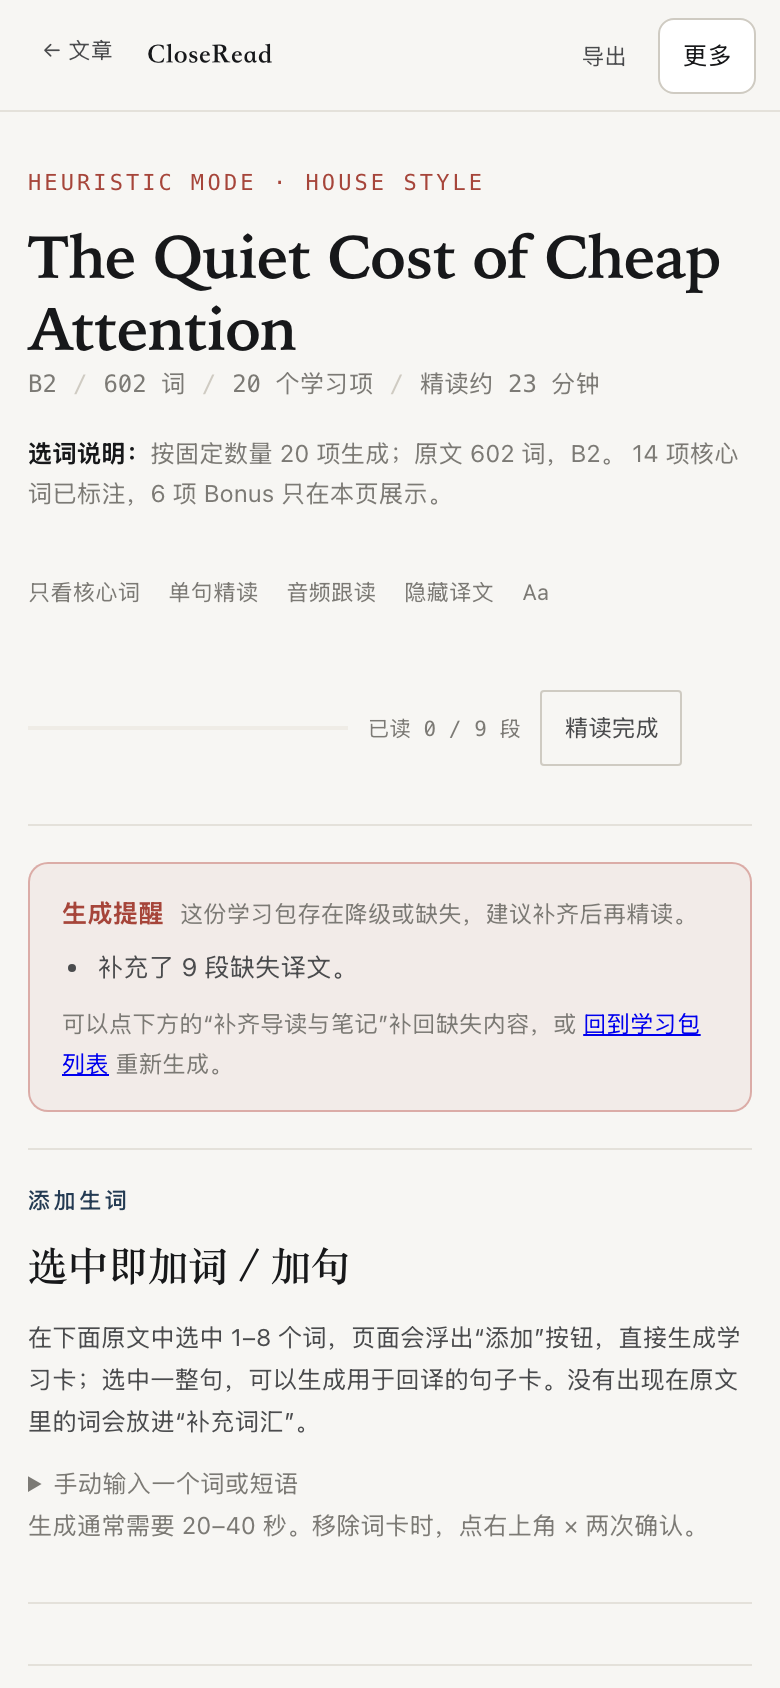
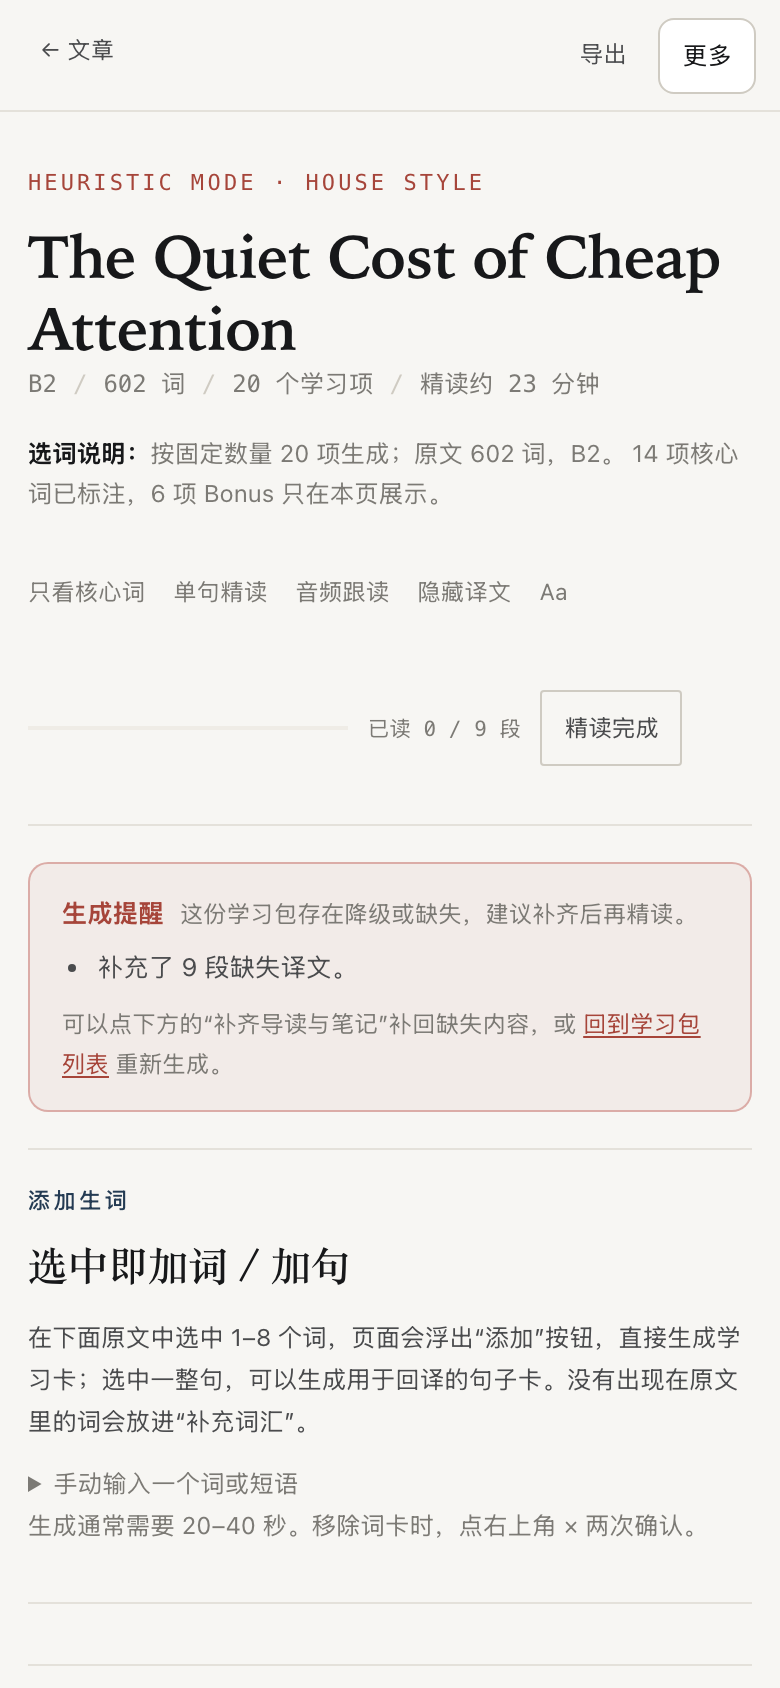
fix: tighten the mobile reader so the article starts within one screen

diff --git a/scripts/shot-reader.ts b/scripts/shot-reader.ts
@@ -36,6 +36,19 @@ try {
     await fs.mkdir(out, { recursive: true })
     await fs.writeFile(path.join(out, file), Buffer.from(shot.data, 'base64'))
     console.log(file, '→', path.join(out, file))
+
+    // Whole page, so the reading area below the fold is visible in one image.
+    const pageHeight = await page.evaluate<number>('Math.min(document.body.scrollHeight, 8000)')
+    const sliceTop = await page.evaluate<number>("(() => { const el = document.querySelector('.paragraph'); return el ? Math.max(0, el.getBoundingClientRect().top + window.scrollY - 80) : 1400 })()")
+    const bodyShot = await page.send('Page.captureScreenshot', {
+      format: 'png',
+      captureBeyondViewport: true,
+      clip: { x: 0, y: sliceTop, width, height: Math.min(1800, Math.max(400, pageHeight - sliceTop)), scale: 1 },
+    })
+    if (!bodyShot.data) throw new Error(`body capture failed ${file}`)
+    const bodyFile = file.replace('.png', '-body.png')
+    await fs.writeFile(path.join(out, bodyFile), Buffer.from(bodyShot.data, 'base64'))
+    console.log(bodyFile, '→', path.join(out, bodyFile), `top=${Math.round(sliceTop)} total=${pageHeight}px`)
   }
 } finally {
   await page.close()

diff --git a/src/pack/html.ts b/src/pack/html.ts
@@ -1664,7 +1664,12 @@ ${exportMode ? '' : themeBootScript()}
       padding-bottom: calc(8px + env(safe-area-inset-bottom));
     }
     .export-menu > button, .export-menu > a { min-height: 44px; padding: 10px 11px; font-size: 13px; }
-    .page { width: 100%; padding: 26px 14px calc(64px + env(safe-area-inset-bottom)); }
+    .page { width: 100%; padding: 20px 18px calc(64px + env(safe-area-inset-bottom)); }
+    .hero { padding-top: 4px; }
+    .hero h1, .front-title { font-size: clamp(26px, 8.2vw, 34px); line-height: 1.24; }
+    .add-panel > p { display: none; }
+    .add-panel { margin-top: 16px; padding: 14px 0; }
+    .add-panel h2 { font-size: 16px; margin-bottom: 6px; }
     .hero-actions {
       flex-wrap: nowrap;
       overflow-x: auto;
